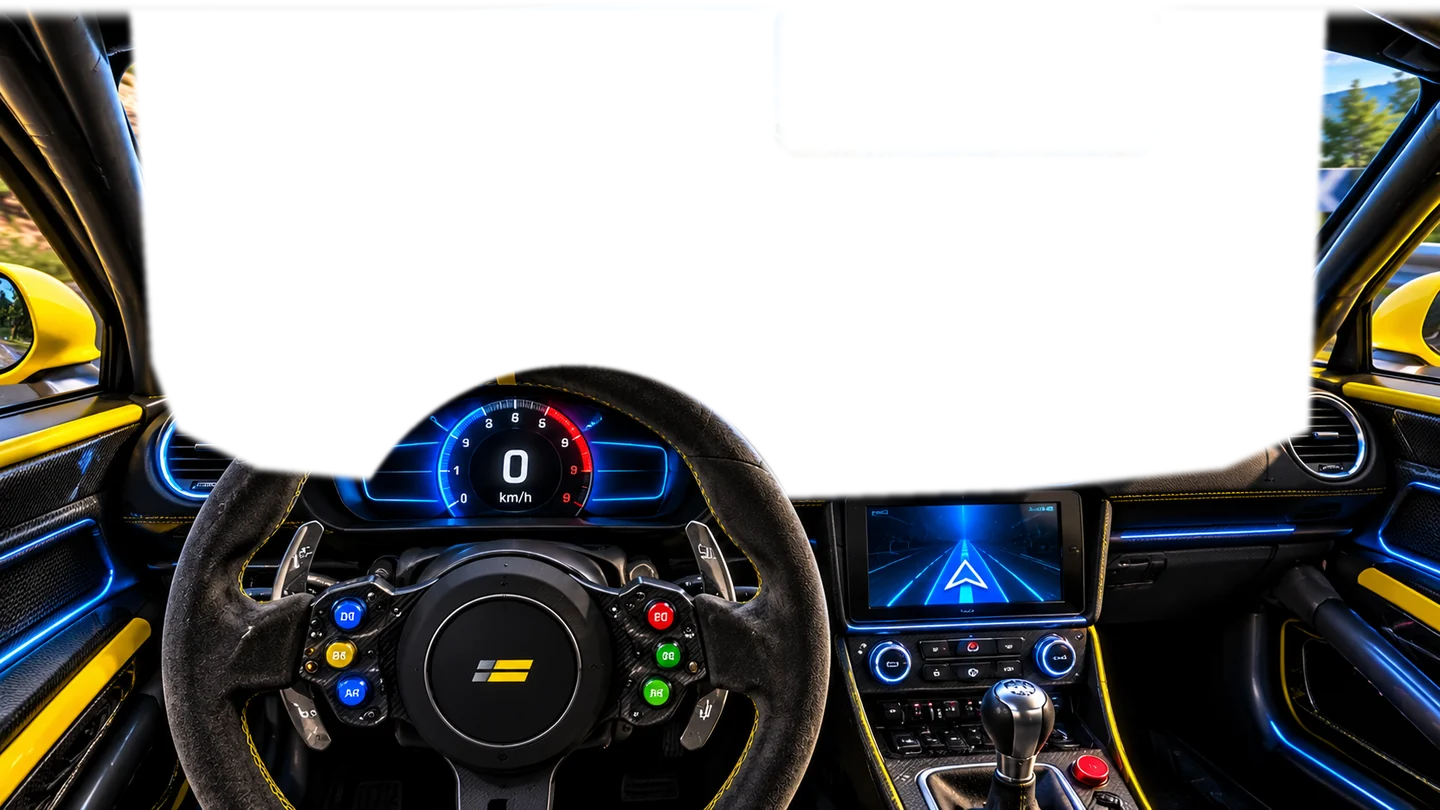
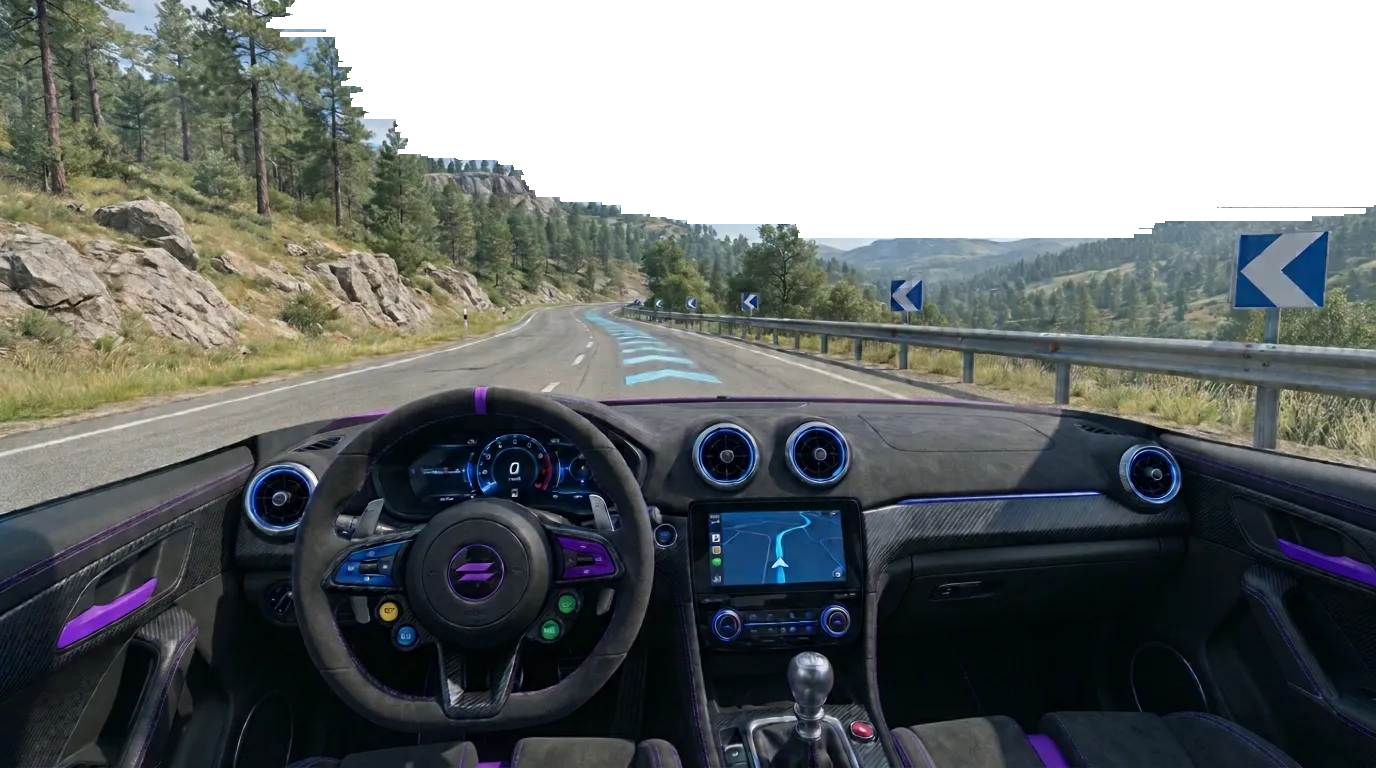
Usa la imagen generada como cabina AR con parabrisas transparente
Convierte la imagen del escritorio en el marco AR, recortando el parabrisas para que la cámara se vea y la cabina cubra toda la pantalla sin flancos. Ajusta el cálculo del cristal al nuevo tamaño.

🤖 Generated with Codebuff

diff --git a/public/index.html b/public/index.html
@@ -44,7 +44,7 @@
   <link rel="stylesheet" href="/css/omega.css?v=20261119a">
   <link rel="stylesheet" href="/css/aurora.css?v=20261119a">
   <link rel="stylesheet" href="/css/halo.css?v=20261120b">
-  <link rel="stylesheet" href="/css/ruta.css?v=20261126a7">
+  <link rel="stylesheet" href="/css/ruta.css?v=20261126a9">
   <link rel="stylesheet" href="/css/interfaz-animada.css?v=20261122c">
   <link rel="stylesheet" href="/css/movil-ligero.css?v=20261121a">
   <meta property="og:type" content="website">  <meta property="og:site_name" content="Diagnóstico y Mecánica">
@@ -1963,7 +1963,7 @@ Pulsa «Simular secuencia» para ver la demo o conecta el adaptador.</pre>
       <canvas id="ruta3d" class="ruta-3d" aria-hidden="true" hidden></canvas>
       <canvas id="rutaCoche3d" class="ruta-coche3d" aria-hidden="true"></canvas>
       <video id="rutaArVideo" class="ruta-ar-video" autoplay playsinline muted></video>
-      <img id="rutaCabinaFoto" class="ruta-cabina-foto" src="/img/cabina-gt4-ar.webp?v=20261126a7" alt="" aria-hidden="true">
+      <img id="rutaCabinaFoto" class="ruta-cabina-foto" src="/img/cabina-gt4-ar.webp?v=20261126a9" alt="" aria-hidden="true">
       <canvas id="rutaCabina3d" class="ruta-cabina3d" aria-hidden="true"></canvas>
       <canvas id="rutaArCanvas" class="ruta-ar-canvas" aria-hidden="true"></canvas>
       <div class="ruta-hud">

diff --git a/public/js/ruta.js b/public/js/ruta.js
@@ -2157,7 +2157,7 @@
     // La foto se escala al 0.78 en CSS (transform) para alejar el habitáculo;
     // el cálculo del cristal debe seguir ese mismo factor o las líneas caen
     // fuera del parabrisas.
-    const escalaCss = Math.max(foto.clientWidth / foto.naturalWidth, foto.clientHeight / foto.naturalHeight) * 0.78;
+    const escalaCss = Math.max(foto.clientWidth / foto.naturalWidth, foto.clientHeight / foto.naturalHeight);
     const offsetY = foto.clientHeight - foto.naturalHeight * escalaCss;
     const yCss = offsetY + arCristalImgY * escalaCss;
     const factor = h / (canvasAr?.clientHeight || h);

diff --git a/public/css/ruta.css b/public/css/ruta.css
@@ -3188,10 +3188,8 @@ body.viendo-ruta .pwa-install { display: none !important; }
   /* A sangre: el marco del coche coincide con el marco de la pantalla. */
   object-fit: cover;
   object-position: center bottom;
-  /* El habitáculo se aleja un poco para que se vea más cámara y el volante
-     no tape la imagen; el parabrisas sigue centrado en la parte superior. */
-  transform: scale(0.78);
-  transform-origin: center bottom;
+  /* La imagen cubre toda la pantalla: sin flancos ni ángulos muertos. */
+  transform: none;
   z-index: 4;
   display: none;
   pointer-events: none;

diff --git a/public/sw.js b/public/sw.js
@@ -1,4 +1,4 @@
-const CACHE = 'dm-app-v174';
+const CACHE = 'dm-app-v175';
 const CORE = [
   '/',
   '/index.html',
